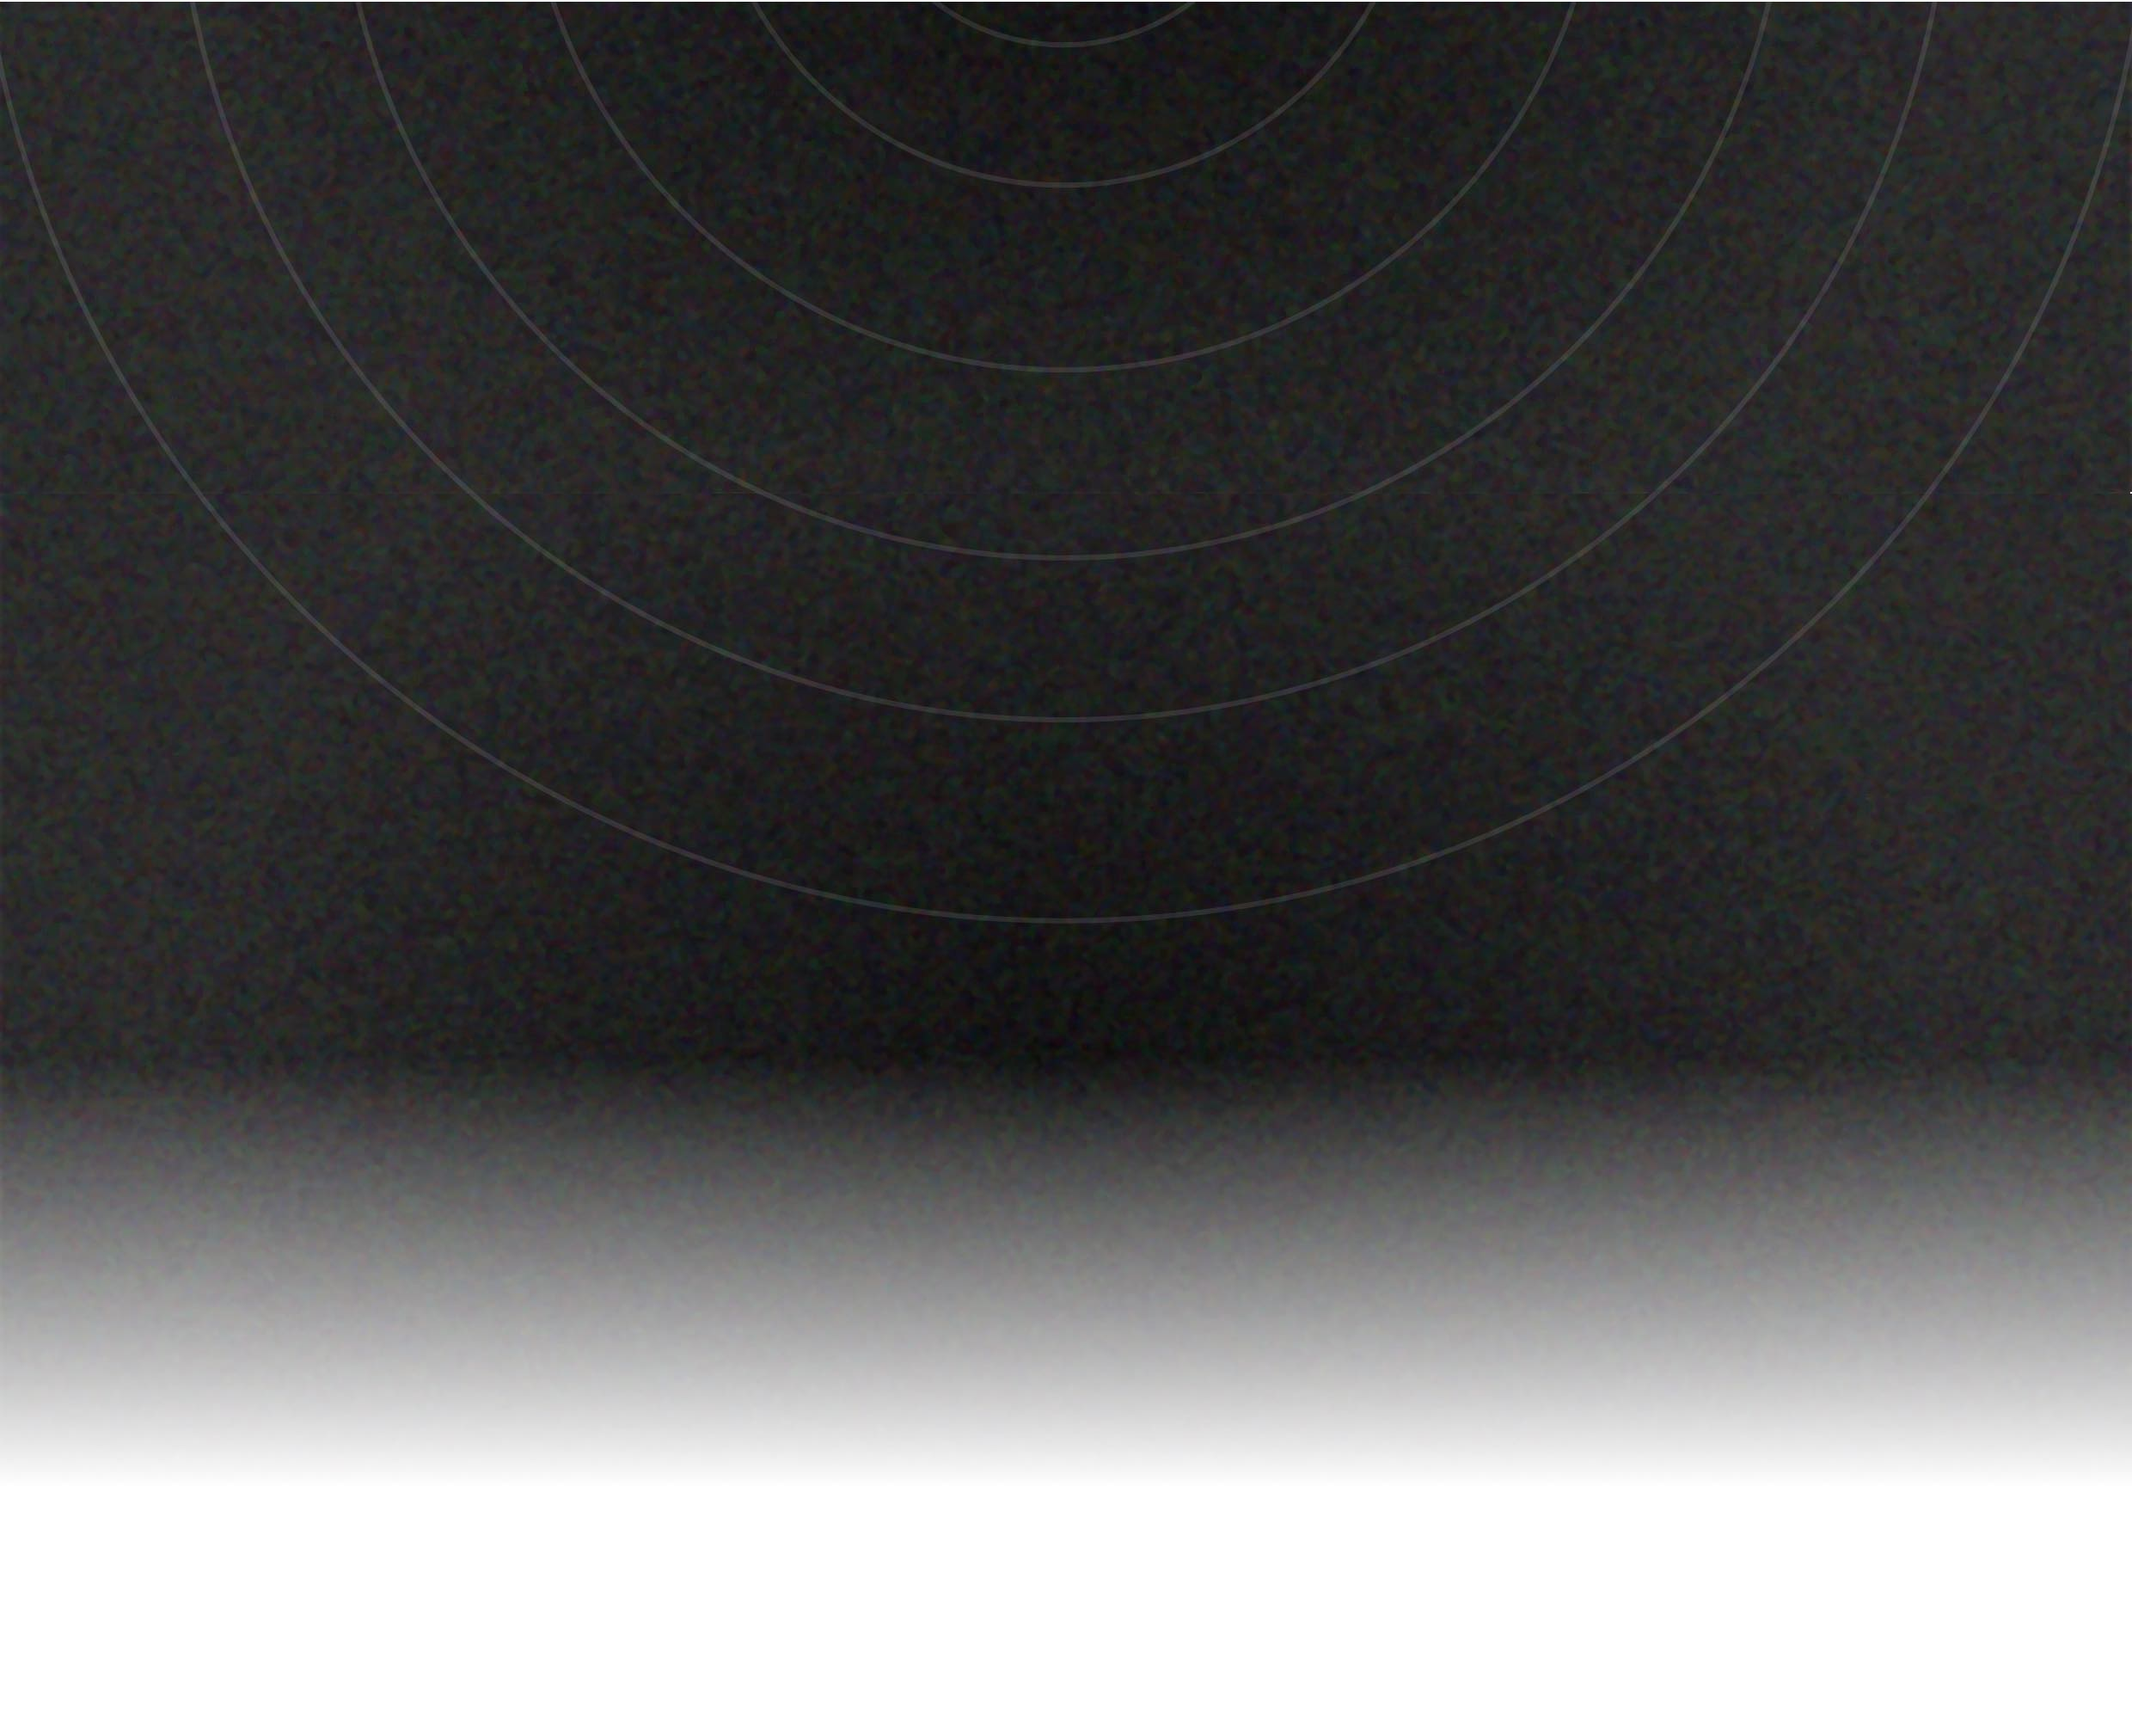
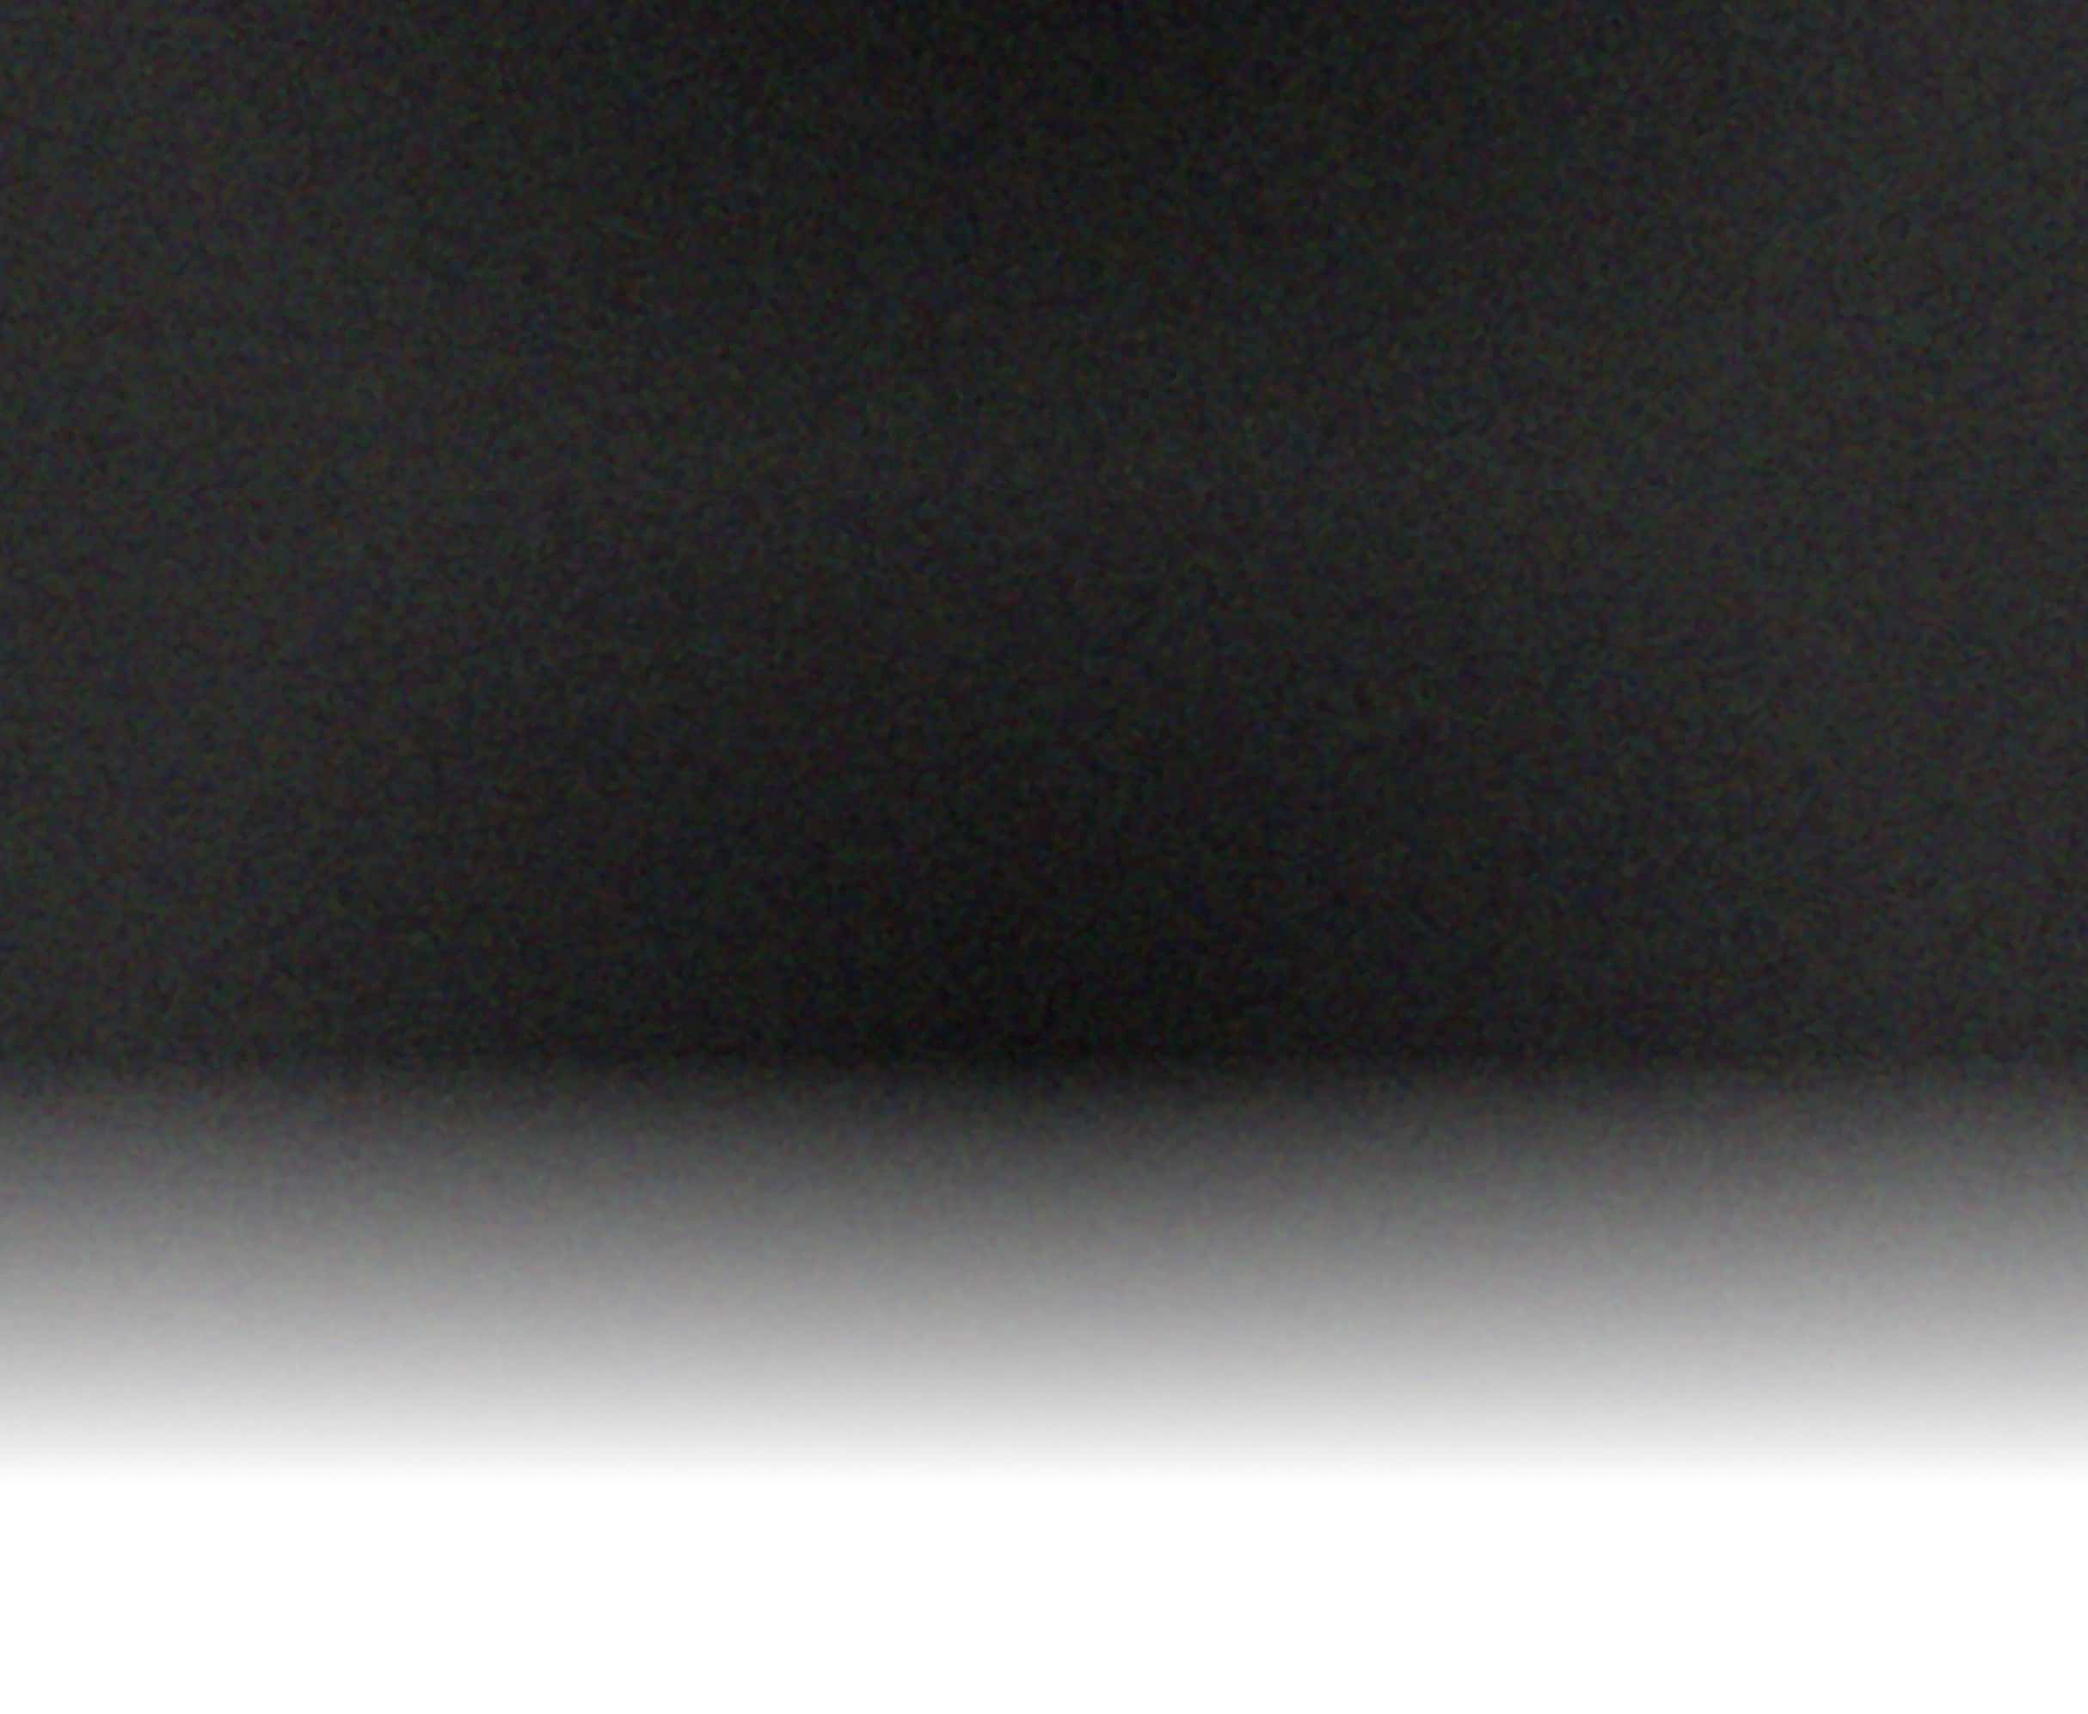
Updated get started background graphics

diff --git a/extension/ts/get-started.js/GetStartedFlow.tsx b/extension/ts/get-started.js/GetStartedFlow.tsx
@@ -26,6 +26,7 @@ export class GetStartedFlow extends Component<
     return (
       <>
         <div className="img-get-started-bg absolute" />
+        <div className="img-circles absolute" />
         <div className="px-16">
           <div className="mx-auto max-w-2xl grid grid-cols-12 gap-5 font-sans text-xl">
             <div className="col-span-1" />

diff --git a/extension/ts/get-started.js/index.css b/extension/ts/get-started.js/index.css
@@ -27,6 +27,15 @@ ul.triangle-bullets li:before {
   z-index: -100;
 }
 
+.img-circles {
+  background-image: url("./img/circles.svg");
+  width: 100%;
+  height: 1007px;
+  background-repeat: no-repeat;
+  background-position-x: center;
+  z-index: -100;
+}
+
 .img-mozilla-logo {
   background-image: url("./img/mozilla-logo.svg");
   width: 191px;
